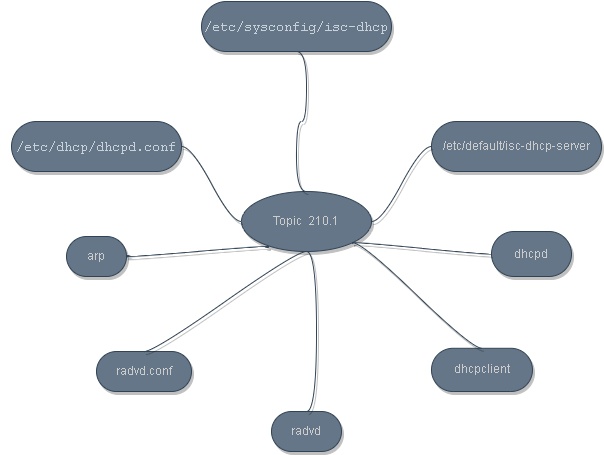
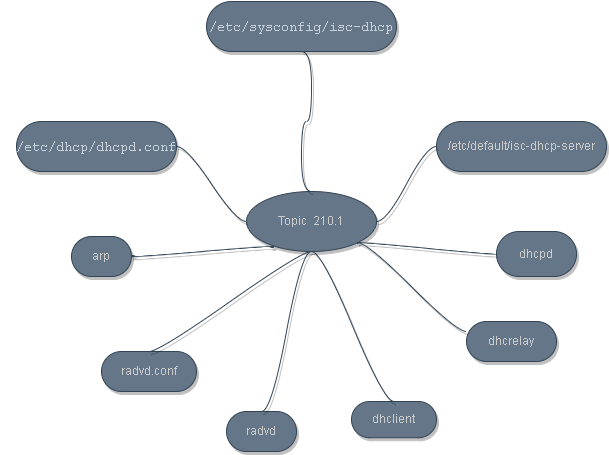
Update files for class today

diff --git a/README.md b/README.md
@@ -1038,8 +1038,24 @@ radvd.conf
 
 #### 210.1 Important Commands
 
+##### dhclient
+
 ```sh
-Examples
+#Release an IP address for the `eth2` interface
+dhclient -r eth2
+
+# Get an IP address for the `eth2` interface:
+dhclient eth2
+```
+
+##### dhcrelay
+
+```sh
+#Release an IP address for the `eth2` interface
+dhclient -r eth2
+
+# Get an IP address for the `eth2` interface:
+dhclient eth2
 ```
 
 <p align="right">(<a href="#topic-210.1">back to sub topic 210.1</a>)</p>
@@ -1062,6 +1078,8 @@ using various available methods. This includes basic SSSD functionality.
 * passwd and shadow passwords
 * Use sssd for LDAP authentication
 
+![PAM](IMages/pam.jpg)
+
 #### 210.2 Cited Objects
 
 ```sh
@@ -1071,6 +1089,60 @@ nsswitch.conf
 pam_unix, pam_cracklib, pam_limits, pam_listfile, pam_sss
 sssd.conf
 ```
+
+#### About PAM
+
+##### Sintaxe configuration Files in /etc/pam.d
+
+```sh
+type  control   module <PARAMS>
+```
+
+Example /etc/pam.d/nologin:
+
+```sh
+auth  required  pam_nologin.so
+```
+
+##### Some importants Configs
+
+###### Types
+
+*auth* - check authenticity of user
+*account* - check if user can use service
+*password* - difines referring updates of authentication
+*session* - some procedure what should be done after login,before user grants access
+
+###### Control
+
+*requisite* - if module fail,all process is interrupted
+*required* - if module failed, the access is deny, but others modules load with success
+*sufficient* -  if module success, others failed modules is ignored. Failed is not fatal
+*optional* - success or failed is not relevant.
+
+###### Modules
+
+*pam_unix.so* -  user passwords (passwd\shadow)
+*pam_limits.so* -  limitations of ressources
+*pam_ldap.so* - access with LDAP
+*pam_cracklib.so* - check of weak passwords
+*pam_listfile.so* - use of external files for control
+*pam_sss.so* - Use SSSD(System Security Services Daemon)
+*pam_krb5.so* - Use Kerberos 5 for authentications
+*pam_userdb.so* - Use Datafiles .db
+*pam_nologin.so* - Use /etc/nologin
+*pam_time.so* - Ressources of control per time
+*pam_console.so* - Access Control of user console
+
+##### Directory of PAM Modules
+
+###### Debian
+
+`/usr/lib/x86_64-linux-gnu/security/`
+
+###### RPM
+
+`/usr/lib64/security/`
 
 ![Mind Map](Images/mindmap-210.2.png)
 
